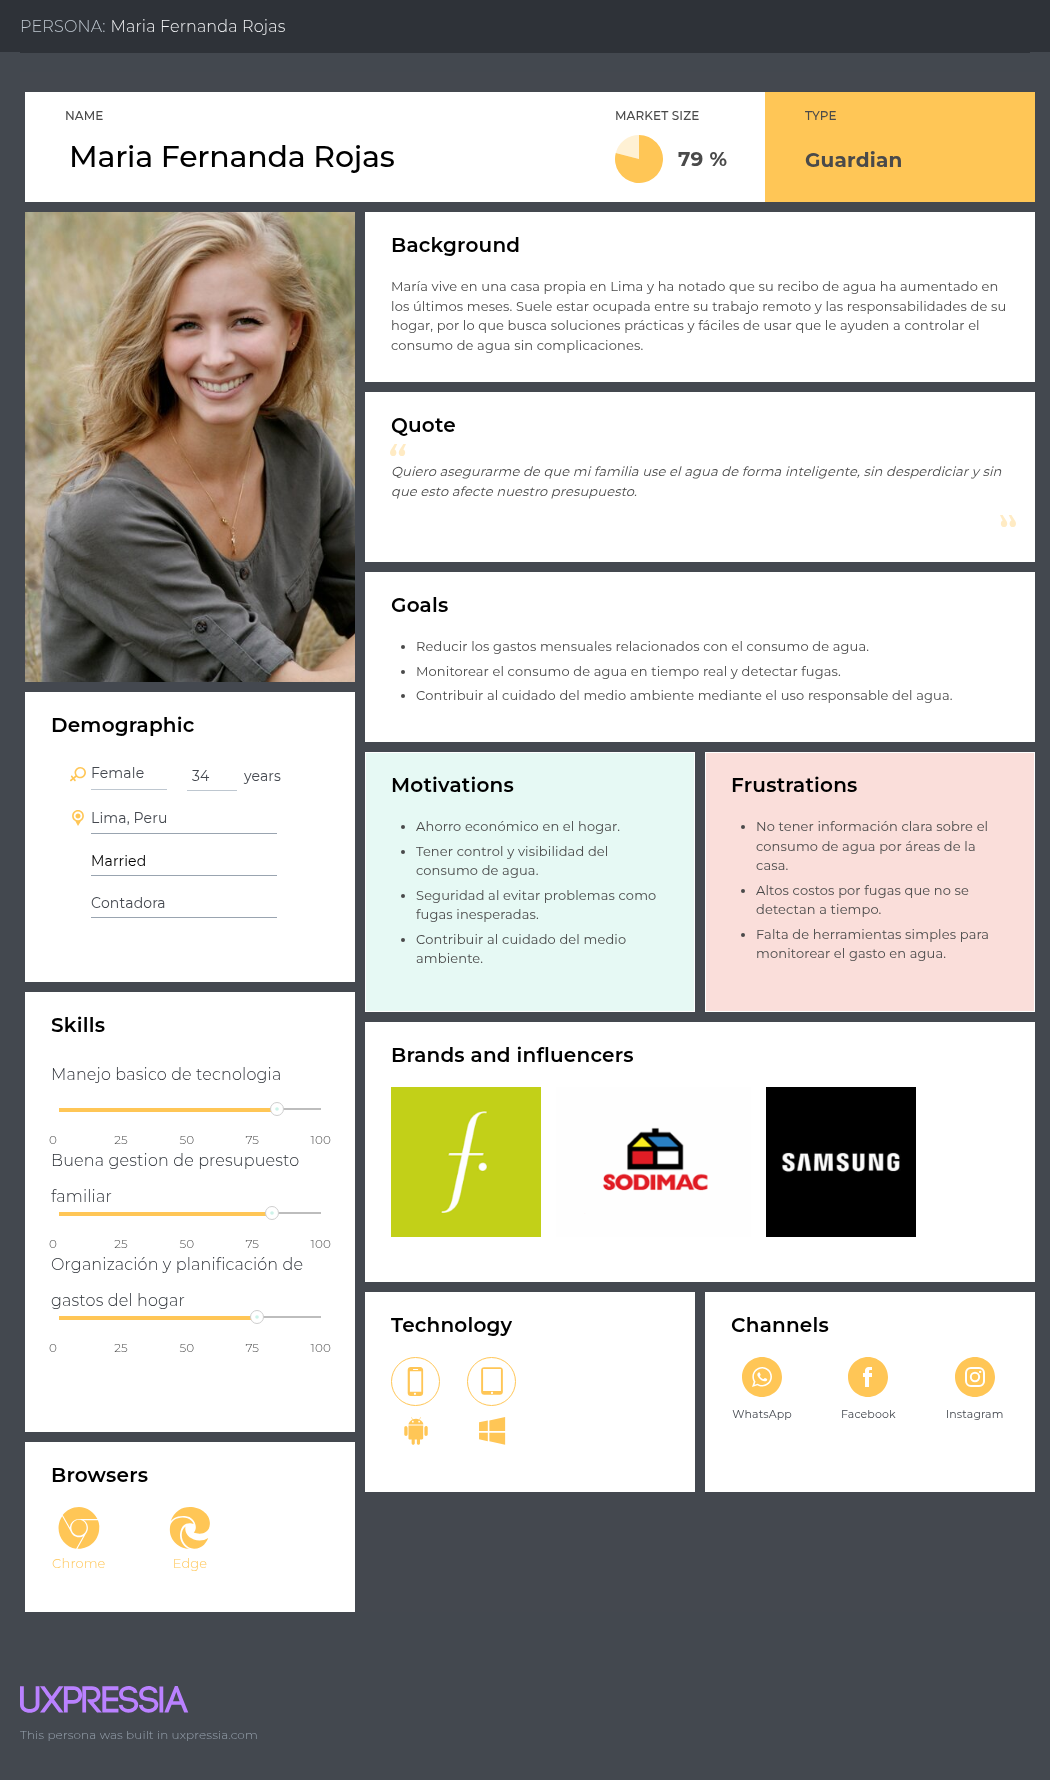
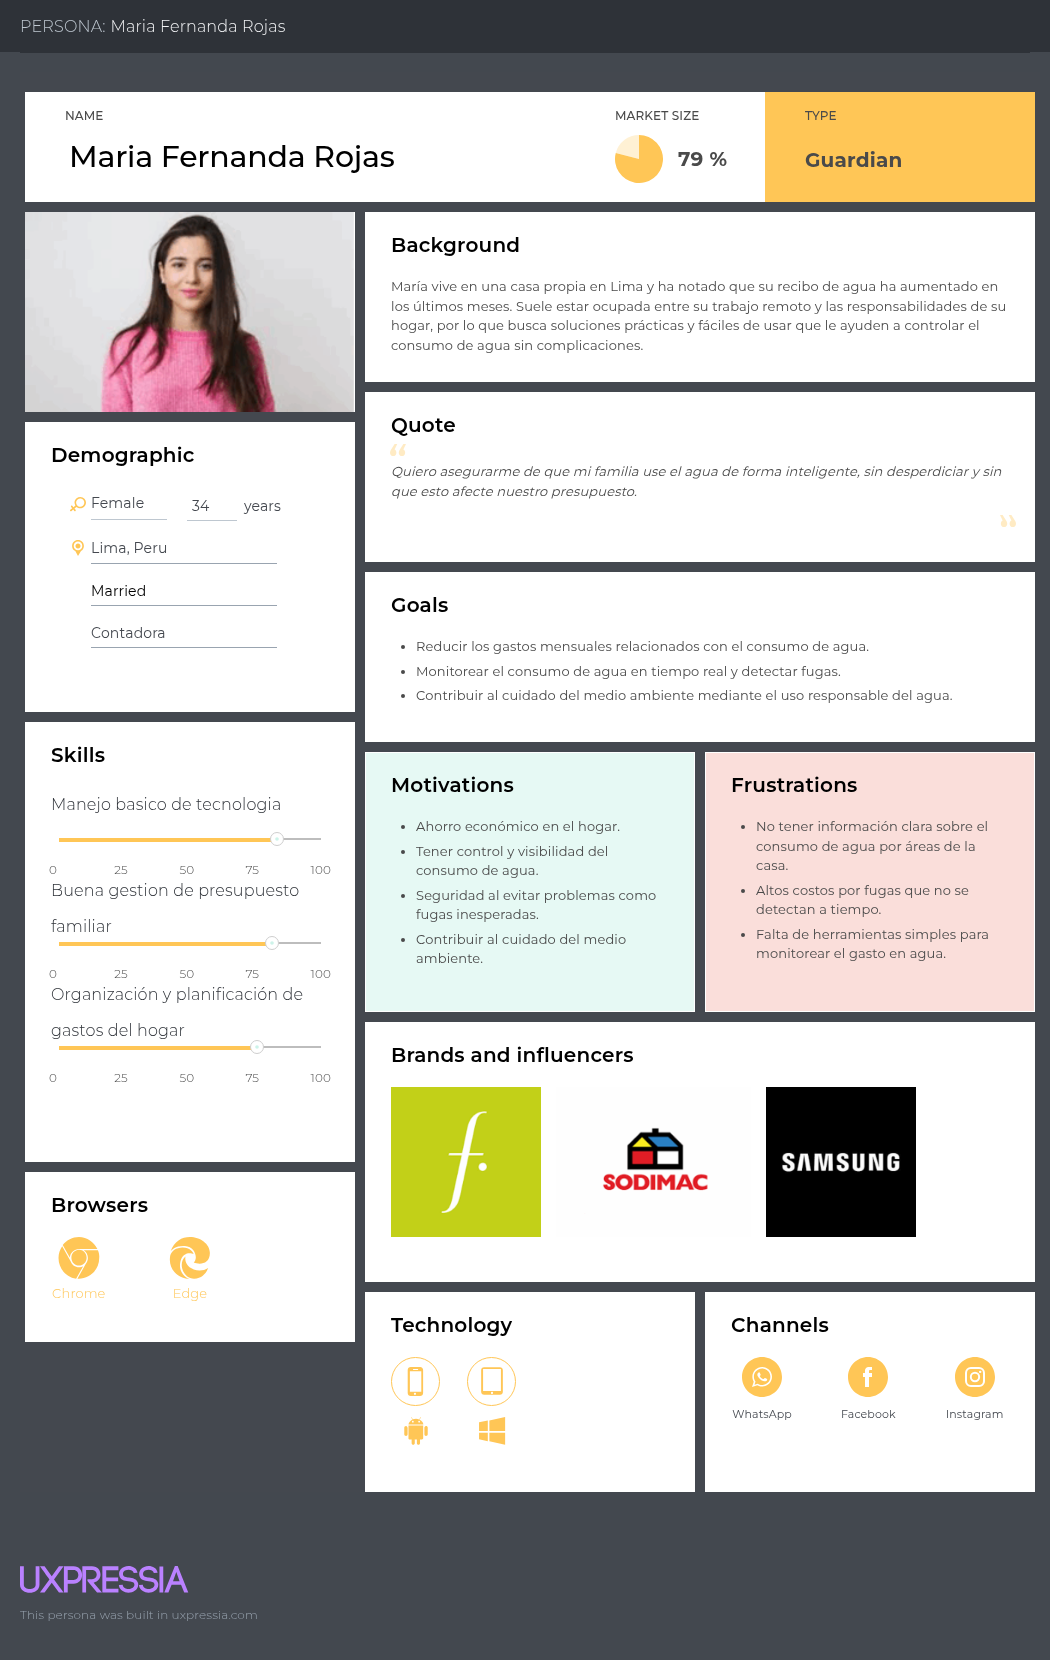
docs: add user person 2 and empathy mapping for user person 1 and 2.

diff --git a/report/chapter2/chapter2.md b/report/chapter2/chapter2.md
@@ -157,6 +157,8 @@ En esta sección, se incluyen las fichas de User Personas que representan arquet
 
 - Pequeñas y medianas empresas (PYMES)
 
+![Jorge Luis Cáceres.png](../../assests/chapter-2/Jorge%20Luis%20C%C3%A1ceres.png)
+
 #### 2.3.2. User Task Matrix
 
 La User Task Matrix ayuda a priorizar y organizar las tareas clave que los usuarios realizan en QLic, enfocando el desarrollo en lo que genera más valor para ellos y para el negocio.
@@ -192,7 +194,13 @@ Importancia: Alta, Media, Baja.
 
 Para los Empathy Mapping, utilizaremos a las User Personas María Fernanda Rojas, usuaria residencial que busca optimizar el consumo de agua en su hogar, y Jorge Luis Cáceres, gerente de operaciones de una PYMES que desea controlar y optimizar el uso de agua en su negocio, con el fin de comprender mejor sus motivaciones, frustraciones y necesidades para diseñar funcionalidades de QLic que les generen valor.
 
-(empathy mappings listo, solo se cambiara la informacion por la entrevista)
+- Usuario Residencial
+
+![Maria Fernanda Rojas.png](../../assests/chapter-2/Maria%20Fernanda%20Rojas.png)
+
+- Pequeñas y medianas empresas (PYMES)
+
+![Jorge Luis Caceres - Empathy Mapping.png](../../assests/chapter-2/Jorge%20Luis%20Caceres%20-%20Empathy%20Mapping.png)
 
 #### 2.3.5. As-is Scenario Mapping
 # As-Is Scenario Mapping
